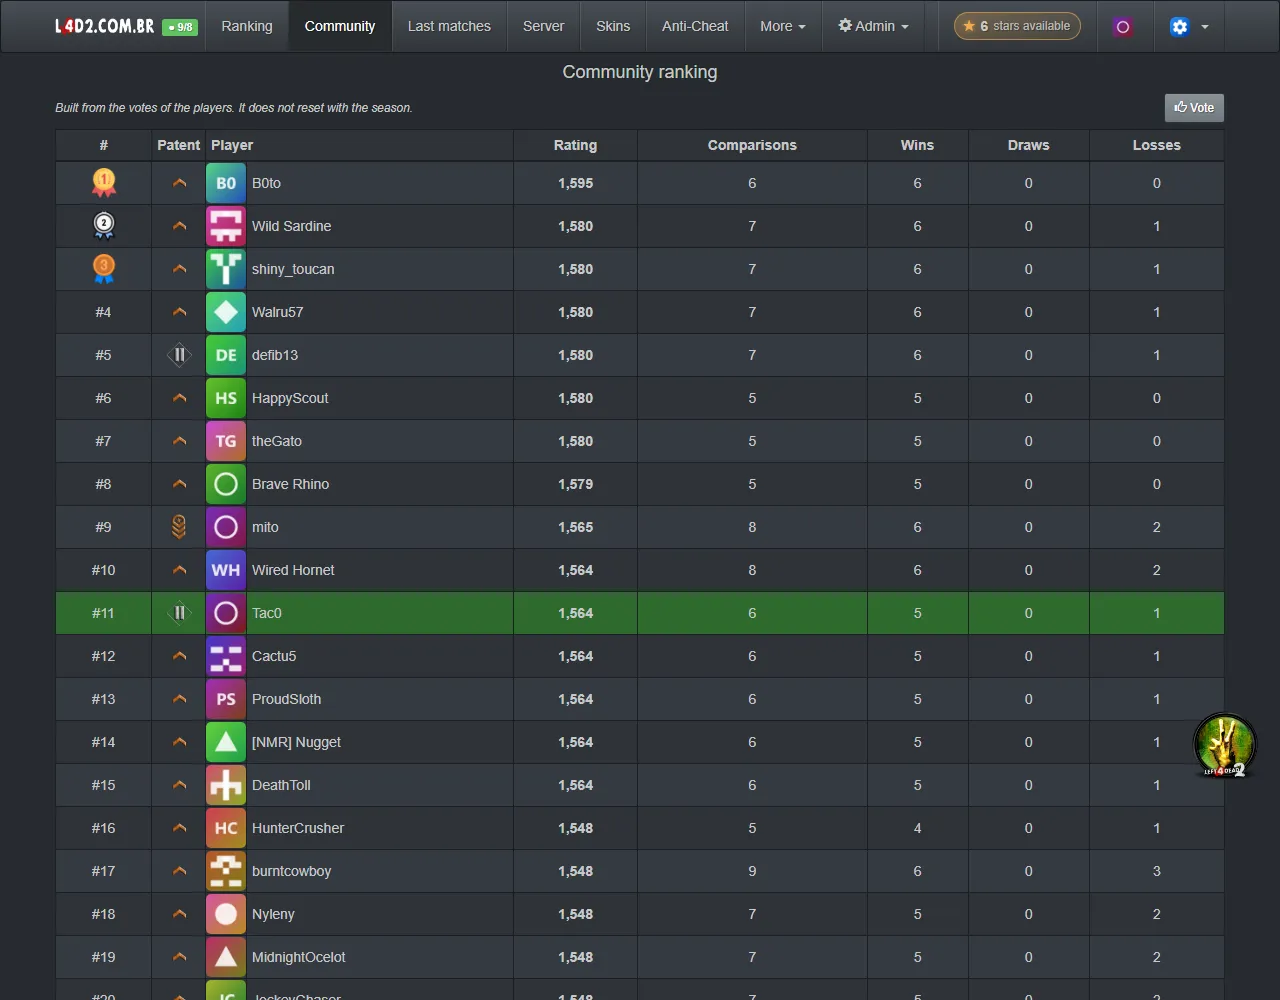
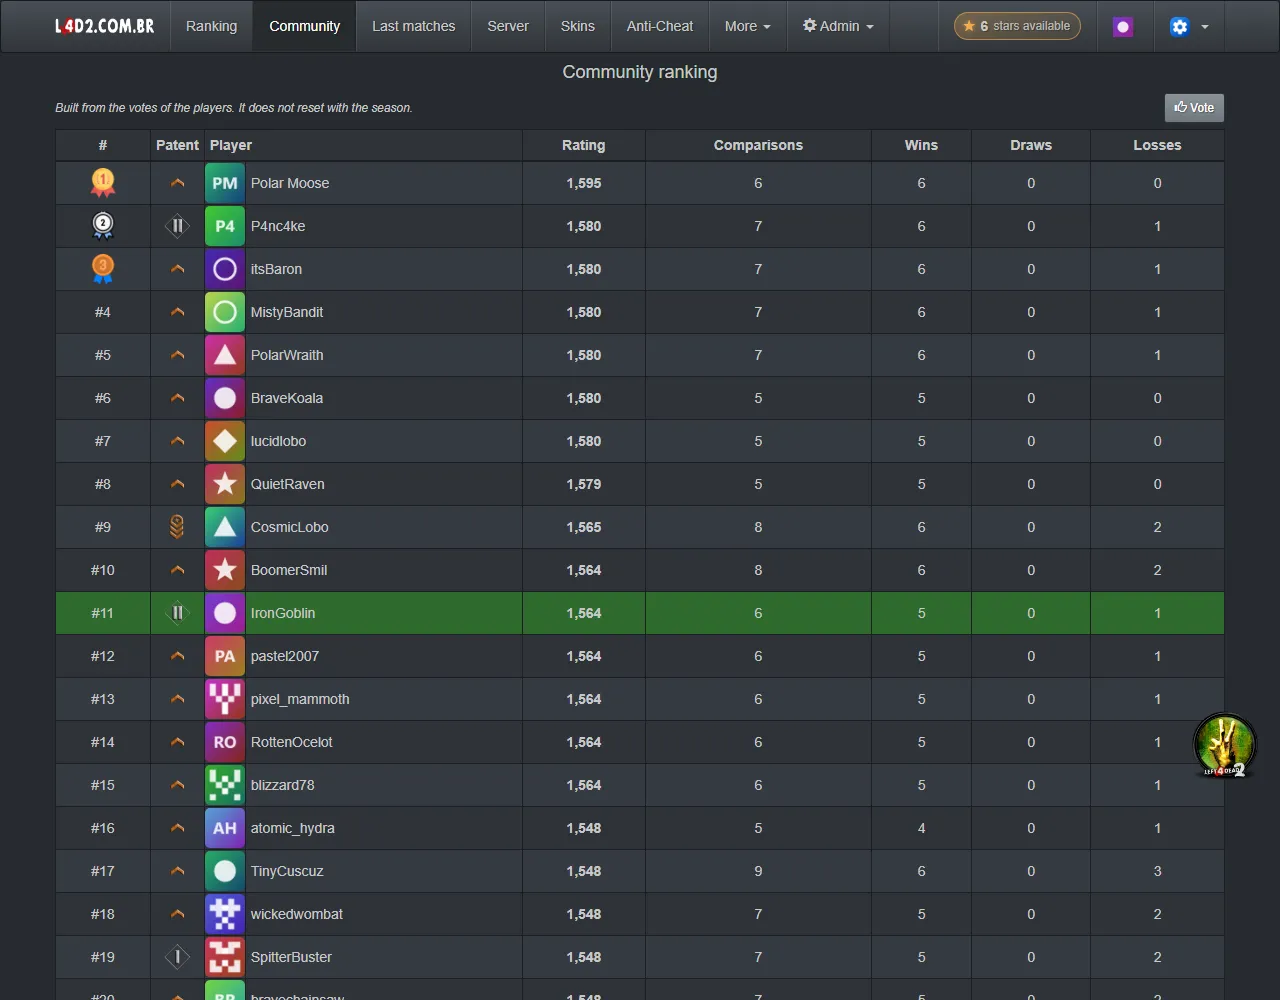
Add two rules to the community ranking: a maximum number of days since the last match for a player to be offered in the voting, 0 for no limit, and the minimum number of matches to be compared now also applies to the list of the community ranking, written under the table; settings on the admin page,

diff --git a/tests/L4D2PlayStats.Hub.Tests/Community/CommunityVoteServiceTests.cs b/tests/L4D2PlayStats.Hub.Tests/Community/CommunityVoteServiceTests.cs
@@ -531,6 +531,53 @@ public class CommunityVoteServiceTests
     }
 
     [TestMethod]
+    public async Task PlayersWhoHaveNotPlayedForTooLongAreNotCandidates()
+    {
+        using var community = new CommunityTestHub();
+
+        var veterans = community.TeamB.Take(2).ToArray();
+
+        await community.PlayAsync(CommunityTestHub.Night.AddDays(-200));
+        await community.PlayAsync(CommunityTestHub.Night, veterans);
+        await community.SaveAsync(new CommunityRankingSettings { MinimumMatchesToVote = 1, CandidatePlayedWithinDays = 90, VotesPerDay = EnoughVotes });
+
+        var pairs = await community.AnswerEverythingAsync(community.Voter, CommunityVoteOutcome.SameLevel);
+
+        Assert.HasCount(10, pairs);
+        Assert.IsFalse(pairs.Any(pair => veterans.Contains(pair.Left) || veterans.Contains(pair.Right)));
+    }
+
+    [TestMethod]
+    public async Task WithZeroDaysPlayersAreCandidatesHoweverLongAgoTheyPlayed()
+    {
+        using var community = new CommunityTestHub();
+
+        var veterans = community.TeamB.Take(2).ToArray();
+
+        await community.PlayAsync(CommunityTestHub.Night.AddDays(-200));
+        await community.PlayAsync(CommunityTestHub.Night, veterans);
+        await community.SaveAsync(new CommunityRankingSettings { MinimumMatchesToVote = 1, CandidatePlayedWithinDays = 0, VotesPerDay = EnoughVotes });
+
+        var pairs = await community.AnswerEverythingAsync(community.Voter, CommunityVoteOutcome.SameLevel);
+
+        Assert.HasCount(21, pairs);
+        Assert.IsTrue(pairs.Any(pair => veterans.Contains(pair.Left) || veterans.Contains(pair.Right)));
+    }
+
+    [TestMethod]
+    public void TheDaysSinceTheLastMatchGiveTheOldestMatchThatCounts()
+    {
+        var now = new DateTime(2026, 11, 15, 12, 0, 0, DateTimeKind.Utc);
+        var settings = new CommunityRankingSettings { CandidatePlayedWithinDays = -5 };
+
+        settings.Normalize();
+
+        Assert.AreEqual(0, settings.CandidatePlayedWithinDays);
+        Assert.IsNull(settings.CandidatesPlayedSince(now));
+        Assert.AreEqual(now.AddDays(-90), new CommunityRankingSettings { CandidatePlayedWithinDays = 90 }.CandidatesPlayedSince(now));
+    }
+
+    [TestMethod]
     public async Task APlayerWhoStopsBeingACandidateLeavesThePairOnOffer()
     {
         using var community = new CommunityTestHub();

diff --git a/src/L4D2PlayStats.Hub.Core/Modules/Community/Settings/CommunityRankingSettings.cs b/src/L4D2PlayStats.Hub.Core/Modules/Community/Settings/CommunityRankingSettings.cs
@@ -5,6 +5,7 @@ public class CommunityRankingSettings
     public int MinimumMatchesToVote { get; set; } = AppConsts.DefaultCommunityMinimumMatchesToVote;
     public int VotesPerDay { get; set; } = AppConsts.DefaultCommunityVotesPerDay;
     public int MinimumMatchesToBeCandidate { get; set; } = AppConsts.DefaultCommunityMinimumMatchesToBeCandidate;
+    public int CandidatePlayedWithinDays { get; set; } = AppConsts.DefaultCommunityCandidatePlayedWithinDays;
     public int MinimumComparisonsToBeListed { get; set; } = AppConsts.DefaultCommunityMinimumComparisonsToBeListed;
     public int KFactor { get; set; } = AppConsts.DefaultCommunityKFactor;
     public int InitialRating { get; set; } = AppConsts.DefaultCommunityInitialRating;
@@ -14,8 +15,14 @@ public class CommunityRankingSettings
         MinimumMatchesToVote = Math.Max(0, MinimumMatchesToVote);
         VotesPerDay = Math.Max(AppConsts.CommunityMinVotesPerDay, VotesPerDay);
         MinimumMatchesToBeCandidate = Math.Max(0, MinimumMatchesToBeCandidate);
+        CandidatePlayedWithinDays = Math.Max(0, CandidatePlayedWithinDays);
         MinimumComparisonsToBeListed = Math.Max(0, MinimumComparisonsToBeListed);
         KFactor = Math.Clamp(KFactor, AppConsts.CommunityMinKFactor, AppConsts.CommunityMaxKFactor);
         InitialRating = Math.Max(0, InitialRating);
+    }
+
+    public DateTime? CandidatesPlayedSince(DateTime utcNow)
+    {
+        return CandidatePlayedWithinDays > 0 ? utcNow.AddDays(-CandidatePlayedWithinDays) : null;
     }
 }

diff --git a/tests/L4D2PlayStats.Hub.Tests/Community/CommunityWebTests.cs b/tests/L4D2PlayStats.Hub.Tests/Community/CommunityWebTests.cs
@@ -430,6 +430,7 @@ public class CommunityWebTests
             ["MinimumMatchesToVote"] = "25",
             ["VotesPerDay"] = "0",
             ["MinimumMatchesToBeCandidate"] = "4",
+            ["CandidatePlayedWithinDays"] = "90",
             ["MinimumComparisonsToBeListed"] = "-3",
             ["KFactor"] = "999",
             ["InitialRating"] = "1200"
@@ -443,6 +444,8 @@ public class CommunityWebTests
         Assert.AreEqual(25, settings.MinimumMatchesToVote);
         Assert.AreEqual(1, settings.VotesPerDay);
         Assert.AreEqual(4, settings.MinimumMatchesToBeCandidate);
+        Assert.AreEqual(90, settings.CandidatePlayedWithinDays);
+        Assert.Contains("name=\"CandidatePlayedWithinDays\" type=\"number\" min=\"0\" value=\"90\"", page);
         Assert.AreEqual(0, settings.MinimumComparisonsToBeListed);
         Assert.AreEqual(200, settings.KFactor);
         Assert.AreEqual(1200, settings.InitialRating);
@@ -456,6 +459,7 @@ public class CommunityWebTests
         Assert.AreEqual(10, settings.MinimumMatchesToVote);
         Assert.AreEqual(20, settings.VotesPerDay);
         Assert.AreEqual(1, settings.MinimumMatchesToBeCandidate);
+        Assert.AreEqual(0, settings.CandidatePlayedWithinDays);
         Assert.AreEqual(5, settings.MinimumComparisonsToBeListed);
         Assert.AreEqual(32, settings.KFactor);
         Assert.AreEqual(1500, settings.InitialRating);

diff --git a/tests/L4D2PlayStats.Hub.Tests/Community/CommunityRankingServiceTests.cs b/tests/L4D2PlayStats.Hub.Tests/Community/CommunityRankingServiceTests.cs
@@ -199,6 +199,30 @@ public class CommunityRankingServiceTests
     }
 
     [TestMethod]
+    public async Task PlayersWithTooFewMatchesAreNotListed()
+    {
+        using var community = new CommunityTestHub();
+
+        var newcomers = community.TeamB.Take(2).ToArray();
+
+        await community.PlayAsync(CommunityTestHub.Night);
+        await community.PlayAsync(CommunityTestHub.Night.AddDays(-1), newcomers);
+        await community.SaveAsync(new CommunityRankingSettings { MinimumMatchesToVote = 1, MinimumComparisonsToBeListed = 1, VotesPerDay = EnoughVotes });
+        await community.AnswerEverythingAsync(community.Voter, CommunityVoteOutcome.Left);
+
+        var before = await community.RankingAsync();
+
+        await community.SaveAsync(new CommunityRankingSettings { MinimumMatchesToVote = 1, MinimumComparisonsToBeListed = 1, MinimumMatchesToBeCandidate = 2 });
+
+        var after = await community.RankingAsync();
+
+        Assert.HasCount(7, before);
+        Assert.HasCount(5, after);
+        Assert.IsFalse(after.Any(entry => newcomers.Contains(entry.CommunityId)));
+        CollectionAssert.AreEqual(Enumerable.Range(1, 5).ToList(), after.Select(entry => entry.Position).ToList());
+    }
+
+    [TestMethod]
     public async Task TheRankingGoesFromTheHighestRatingToTheLowestWithNames()
     {
         using var community = new CommunityTestHub();

diff --git a/src/L4D2PlayStats.Hub.Core/Modules/Community/Services/CommunityPlayerService.cs b/src/L4D2PlayStats.Hub.Core/Modules/Community/Services/CommunityPlayerService.cs
@@ -14,10 +14,19 @@ public class CommunityPlayerService(HubDbContext dbContext) : ICommunityPlayerSe
         return Played().CountAsync(p => p.CommunityId == communityId, cancellationToken);
     }
 
-    public async Task<HashSet<long>> CandidatesAsync(int minimumMatches, CancellationToken cancellationToken = default)
+    public async Task<HashSet<long>> CandidatesAsync(int minimumMatches, DateTime? playedSince = null, CancellationToken cancellationToken = default)
     {
-        var candidates = await Played()
-            .Where(p => p.CommunityId > AppConsts.SteamCommunityIdBase)
+        var players = Played().Where(p => p.CommunityId > AppConsts.SteamCommunityIdBase);
+
+        if (playedSince != null)
+        {
+            var since = playedSince.Value;
+            var recent = Played().Where(p => p.Match!.LastFileDate >= since).Select(p => p.CommunityId);
+
+            players = players.Where(p => recent.Contains(p.CommunityId));
+        }
+
+        var candidates = await players
             .GroupBy(p => p.CommunityId)
             .Where(group => group.Count() >= minimumMatches)
             .Select(group => group.Key)

diff --git a/src/L4D2PlayStats.Hub.Core/Modules/Community/Services/CommunityRankingService.cs b/src/L4D2PlayStats.Hub.Core/Modules/Community/Services/CommunityRankingService.cs
@@ -17,14 +17,17 @@ public class CommunityRankingService(
     public async Task<IReadOnlyList<CommunityRankingEntry>> ListAsync(CancellationToken cancellationToken = default)
     {
         var settings = await settingsService.GetAsync<CommunityRankingSettings>(cancellationToken);
+        var eligible = await playerService.CandidatesAsync(settings.MinimumMatchesToBeCandidate, cancellationToken: cancellationToken);
 
-        var ratings = await dbContext.Set<CommunityRating>()
+        var rated = await dbContext.Set<CommunityRating>()
             .AsNoTracking()
             .Where(r => r.Comparisons >= settings.MinimumComparisonsToBeListed)
             .OrderByDescending(r => r.Rating)
             .ThenByDescending(r => r.Comparisons)
             .ThenBy(r => r.CommunityId)
             .ToListAsync(cancellationToken);
+
+        var ratings = rated.Where(r => eligible.Contains(r.CommunityId)).ToList();
 
         var names = await playerService.NamesAsync([.. ratings.Select(r => r.CommunityId)], cancellationToken);
 

diff --git a/src/L4D2PlayStats.Hub.Core/Modules/Community/Services/CommunityVoteService.cs b/src/L4D2PlayStats.Hub.Core/Modules/Community/Services/CommunityVoteService.cs
@@ -148,7 +148,7 @@ public class CommunityVoteService(
 
     private async Task<CommunitySelection> SelectionAsync(long voterId, CommunityRankingSettings settings, CancellationToken cancellationToken)
     {
-        var eligible = await playerService.CandidatesAsync(settings.MinimumMatchesToBeCandidate, cancellationToken);
+        var eligible = await playerService.CandidatesAsync(settings.MinimumMatchesToBeCandidate, settings.CandidatesPlayedSince(clock.UtcNow), cancellationToken);
         var familiar = await playerService.FamiliarAsync(voterId, cancellationToken);
         var ratings = await dbContext.Set<CommunityRating>().AsNoTracking().ToDictionaryAsync(r => r.CommunityId, cancellationToken);
 

diff --git a/src/L4D2PlayStats.Hub.Core/Modules/Community/Services/ICommunityPlayerService.cs b/src/L4D2PlayStats.Hub.Core/Modules/Community/Services/ICommunityPlayerService.cs
@@ -3,7 +3,7 @@ namespace L4D2PlayStats.Hub.Core.Modules.Community.Services;
 public interface ICommunityPlayerService
 {
     Task<int> MatchesAsync(long communityId, CancellationToken cancellationToken = default);
-    Task<HashSet<long>> CandidatesAsync(int minimumMatches, CancellationToken cancellationToken = default);
+    Task<HashSet<long>> CandidatesAsync(int minimumMatches, DateTime? playedSince = null, CancellationToken cancellationToken = default);
     Task<HashSet<long>> FamiliarAsync(long communityId, CancellationToken cancellationToken = default);
     Task<Dictionary<long, string>> NamesAsync(IReadOnlyCollection<long> communityIds, CancellationToken cancellationToken = default);
 }

diff --git a/src/L4D2PlayStats.Hub.Core/AppConsts.cs b/src/L4D2PlayStats.Hub.Core/AppConsts.cs
@@ -60,6 +60,7 @@ public static class AppConsts
     public const int DefaultCommunityMinimumMatchesToVote = 10;
     public const int DefaultCommunityVotesPerDay = 20;
     public const int DefaultCommunityMinimumMatchesToBeCandidate = 1;
+    public const int DefaultCommunityCandidatePlayedWithinDays = 0;
     public const int DefaultCommunityMinimumComparisonsToBeListed = 5;
     public const int DefaultCommunityKFactor = 32;
     public const int DefaultCommunityInitialRating = 1500;

diff --git a/src/L4D2PlayStats.Hub.Web/Controllers/CommunityController.cs b/src/L4D2PlayStats.Hub.Web/Controllers/CommunityController.cs
@@ -42,6 +42,7 @@ public class CommunityController(
         {
             Players = [.. entries.Select(entry => new CommunityRankingRow(entry, experience == null ? null : PatentCatalog.For(experience.GetValueOrDefault(entry.CommunityId))))],
             MinimumComparisons = settings.MinimumComparisonsToBeListed,
+            MinimumMatches = settings.MinimumMatchesToBeCandidate,
             PlayerPages = playerPages
         };
 

diff --git a/src/L4D2PlayStats.Hub.Web/Models/Community/CommunityRankingViewModel.cs b/src/L4D2PlayStats.Hub.Web/Models/Community/CommunityRankingViewModel.cs
@@ -4,5 +4,6 @@ public class CommunityRankingViewModel
 {
     public IReadOnlyList<CommunityRankingRow> Players { get; init; } = [];
     public int MinimumComparisons { get; init; }
+    public int MinimumMatches { get; init; }
     public bool PlayerPages { get; init; }
 }

diff --git a/docs/manual/community-ranking.es.md b/docs/manual/community-ranking.es.md
@@ -30,7 +30,7 @@ El ranking de la comunidad es un segundo ranking, construido a partir de lo que 
 | Comparaciones | Cuántas veces se juzgó al jugador frente a otro jugador. |
 | Victorias, Empates, Derrotas | Cuántas comparaciones ganó, empató y perdió el jugador. |
 
-Solo aparecen los jugadores con suficientes comparaciones: 5 de forma predeterminada. El mínimo está escrito debajo de la tabla. **Votar** abre la página de votación.
+Solo aparecen los jugadores con suficientes comparaciones: 5 de forma predeterminada. El jugador también tiene que haber jugado el mínimo de partidas para ser comparado, 1 de forma predeterminada. Los dos mínimos están escritos debajo de la tabla. **Votar** abre la página de votación.
 
 ## Votar
 
@@ -55,6 +55,7 @@ Después de cada respuesta la página marca tu elección y entra la siguiente pa
 | Tienes que haber jugado un número mínimo de partidas, contadas en todas las temporadas, del ranking o no. | 10 |
 | Tienes un número de votos por día. El día sigue la zona horaria del sitio. Solo las respuestas que juzgan (mejor o mismo nivel) gastan un voto; "No lo conozco" no. | 20 |
 | Un jugador se ofrece para comparar solo después de un número mínimo de partidas. | 1 |
+| Un jugador se ofrece solo si su última partida fue dentro de un número de días. Con 0, sin importar cuánto hace. | 0 |
 | Nunca se te pregunta por ti mismo, ni dos veces por la misma pareja. | |
 
 Cuando no puedes votar, la página dice por qué: tienes que iniciar sesión, necesitas más partidas (con tu cantidad), usaste todos los votos del día o no queda nadie para que compares.
@@ -90,7 +91,8 @@ La puntuación es permanente. No vuelve a empezar con la temporada.
 |---|---|---|
 | Mínimo de partidas para votar | Partidas que un jugador tiene que haber jugado, en todas las temporadas, para votar. | 10 |
 | Votos por día | Respuestas que juzgan que cada votante puede dar por día. Como mínimo 1. | 20 |
-| Mínimo de partidas para ser comparado | Partidas que un jugador tiene que haber jugado para que se ofrezca para comparar. | 1 |
+| Mínimo de partidas para ser comparado y aparecer en la lista | Partidas que un jugador tiene que haber jugado, en todas las temporadas, para que se ofrezca para comparar y para aparecer en el ranking de la comunidad. | 1 |
+| Máximo de días desde la última partida para ser comparado | Un jugador cuya última partida es más antigua que esto deja de ofrecerse para comparar, pero sigue en el ranking de la comunidad. 0 es sin límite. | 0 |
 | Mínimo de comparaciones para aparecer en la lista | Comparaciones que un jugador necesita para aparecer en el ranking de la comunidad. | 5 |
 | Factor K de Elo | Cuánto mueve las puntuaciones un voto, de 1 a 200. | 32 |
 | Puntuación inicial | La puntuación de un jugador que nunca fue comparado. | 1500 |
